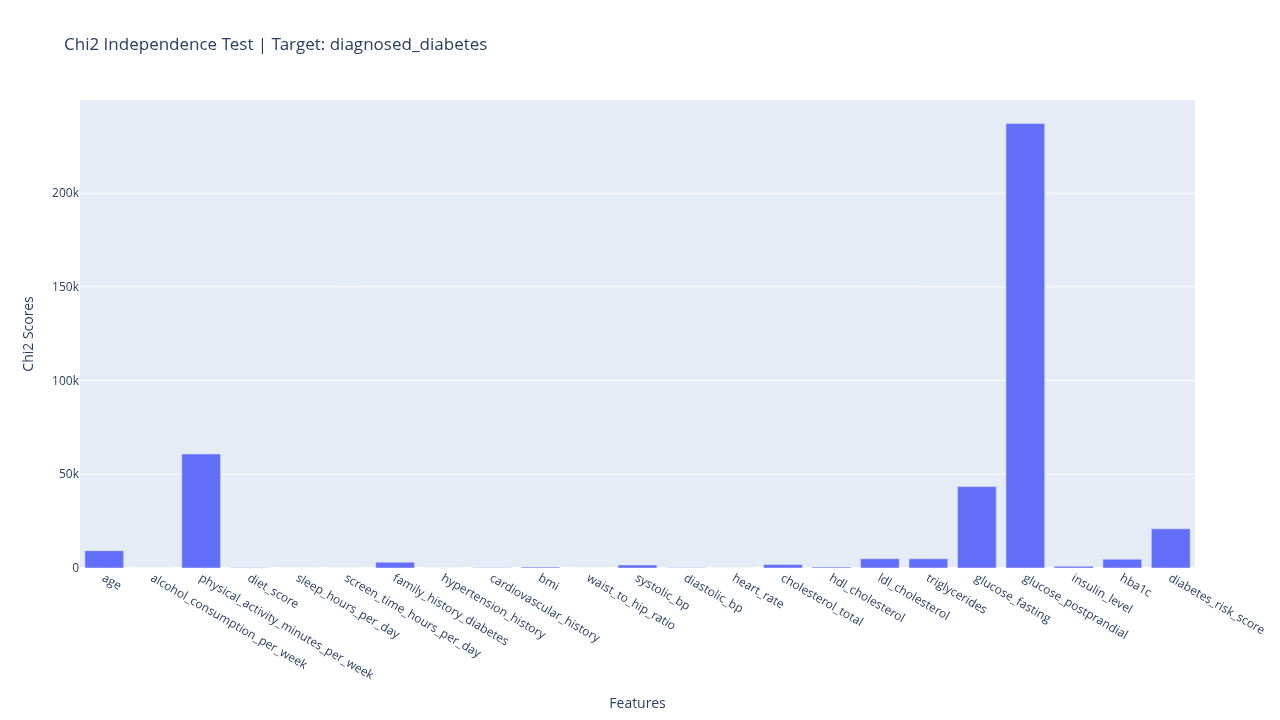
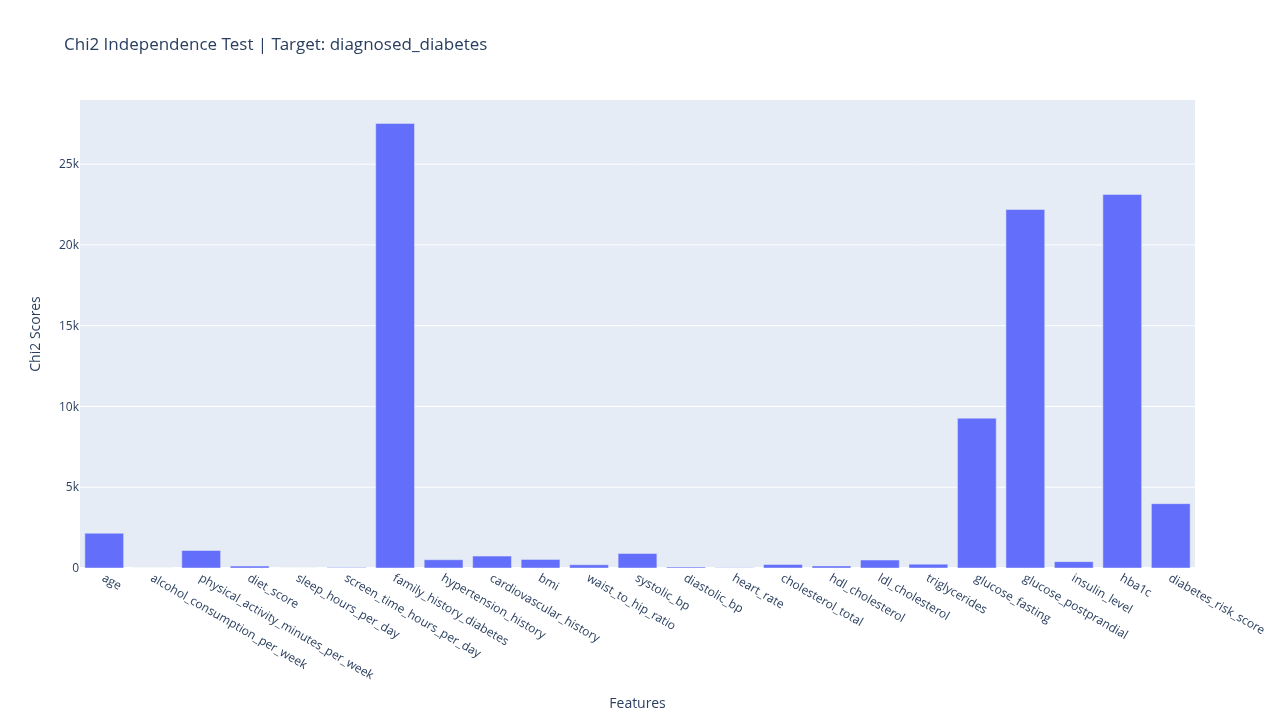
culbec: use X_discrete when computing Chi2 independence.
culbec: use X_discrete when computing Univariate Feature Selection.

diff --git a/dhi/statistics/feature_selection.py b/dhi/statistics/feature_selection.py
@@ -126,7 +126,7 @@ def chi2_independence_test(
         X_discrete[:, i] = kb.fit_transform(col_values.reshape(-1, 1)).ravel()
 
     logger.info(f"Performing chi2 independence test on {df.columns} out of {len(df.columns)} columns")
-    chi2_scores, p_values = skfs.chi2(X, y)
+    chi2_scores, p_values = skfs.chi2(X_discrete, y)
 
     logger.info(f"Chi2 scores: {chi2_scores}")
     logger.info(f"P values: {p_values}")
@@ -296,7 +296,7 @@ def univariate_feature_selection(
     selector = skfs.GenericUnivariateSelect(score_func=skfs.f_classif, mode=mode) # pyright: ignore[reportArgumentType]
     selector.set_params(**params)
 
-    selector.fit(X, y)
+    selector.fit(X_discrete, y)
     scores = np.nan_to_num(selector.scores_, nan=0.0)
 
     logger.info(f"Univariate feature selection scores: {scores}")
